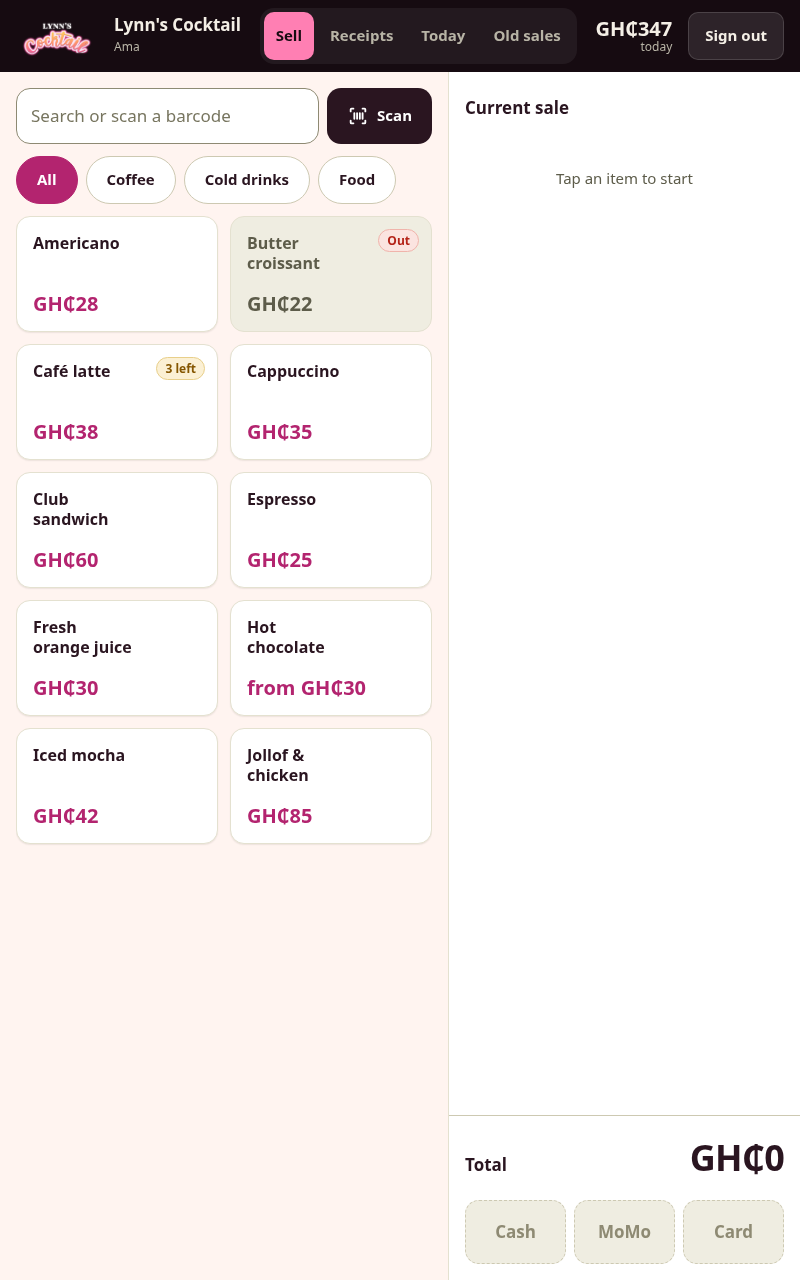
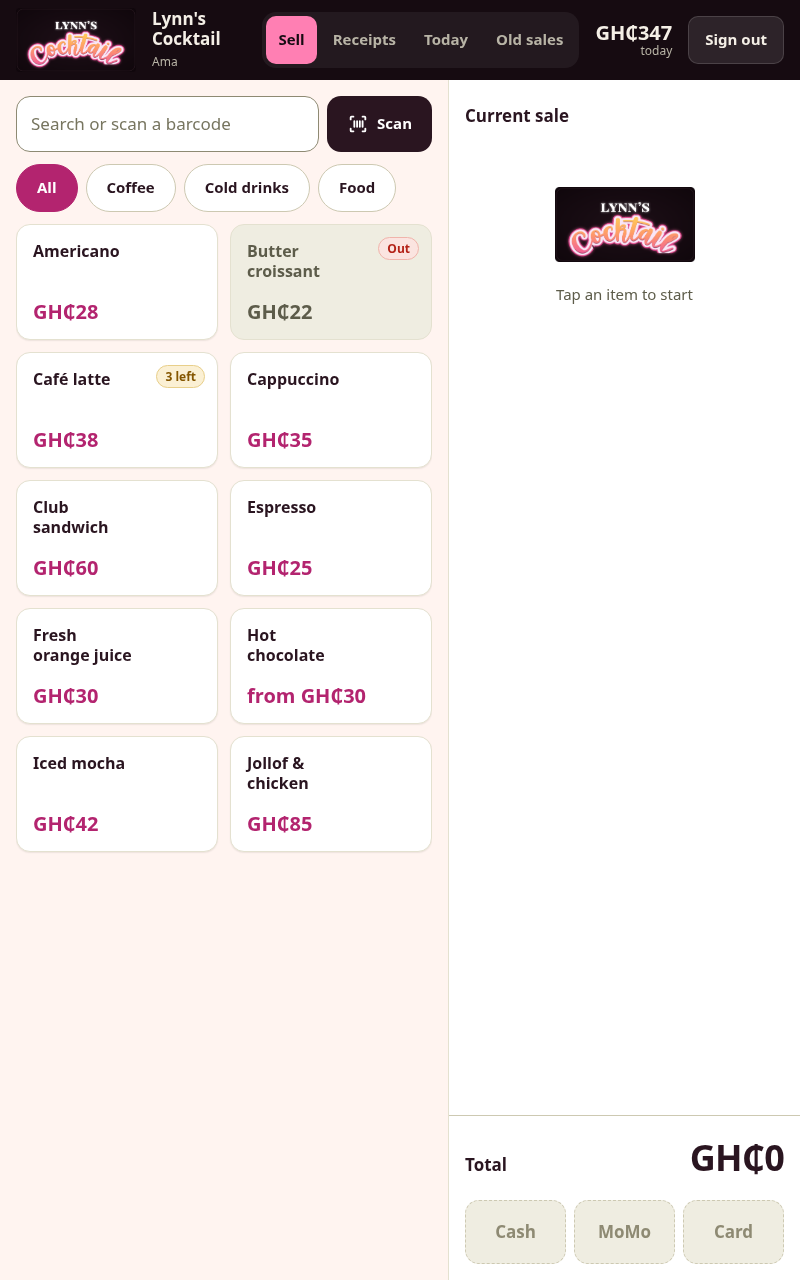
update from bolt

diff --git a/src/styles/cashier-header.css b/src/styles/cashier-header.css
@@ -16,29 +16,48 @@
   display: flex;
   align-items: center;
   gap: var(--s4);
-  min-height: 64px;
+  min-height: 80px;
   padding: var(--s2) var(--s4);
   background: var(--chrome);
   color: var(--on-dark);
 }
+/* Brand sheet: logos at least 120px wide, never recoloured or stretched. */
 .cx header::before {
   content: "";
   flex: none;
-  width: 52px;
-  height: 44px;
+  width: 120px;
+  height: 64px;
   background: url("/assets/images/lynns-events-white.png") center / contain no-repeat;
 }
 .cx[data-brand="bean"] header::before {
-  width: 76px;
   background-image: url("/assets/images/lynns-bean-white.png");
 }
+/* Bites is round artwork: shown in a circle on a light rounded panel in small headers. */
 .cx[data-brand="bites"] header::before {
-  width: 44px;
+  width: 64px;
+  border-radius: var(--r);
+  background: #fbf3e3 url("/assets/images/lynns-bites.png") center / 56px no-repeat;
+}
+/* Cocktail keeps its own dark sign panel. */
+.cx[data-brand="cocktail"] header::before {
+  background-image: url("/assets/images/lynns-cocktail.png");
+}
+.cx .cxempty::before {
+  content: "";
+  display: block;
+  width: 140px;
+  height: 96px;
+  margin: 0 auto var(--s3);
+  background: url("/assets/images/lynns-events.png") center / contain no-repeat;
+}
+.cx[data-brand="bean"] .cxempty::before {
+  background-image: url("/assets/images/lynns-bean.png");
+}
+.cx[data-brand="bites"] .cxempty::before {
   background-image: url("/assets/images/lynns-bites.png");
 }
-.cx[data-brand="cocktail"] header::before {
-  width: 82px;
-  background-image: url("/assets/images/lynns-cocktail-onDark.png");
+.cx[data-brand="cocktail"] .cxempty::before {
+  background-image: url("/assets/images/lynns-cocktail.png");
 }
 .cx header b {
   display: block;

diff --git a/src/styles/responsive.css b/src/styles/responsive.css
@@ -40,11 +40,25 @@
     padding: var(--s2) var(--s3);
   }
   .cx header::before {
-    height: 36px;
+    height: 52px;
+  }
+  .cx[data-brand="bites"] header::before {
+    width: 52px;
+    background-size: 46px;
+  }
+  .cxtot {
+    margin-left: auto;
   }
   .cx header > div:first-of-type {
-    flex: 1;
+    order: 4;
+    flex: 1 0 100%;
     min-width: 0;
+    display: flex;
+    align-items: baseline;
+    gap: var(--s2);
+  }
+  .cx .cxempty::before {
+    height: 56px;
   }
   .cx header nav {
     order: 5;
